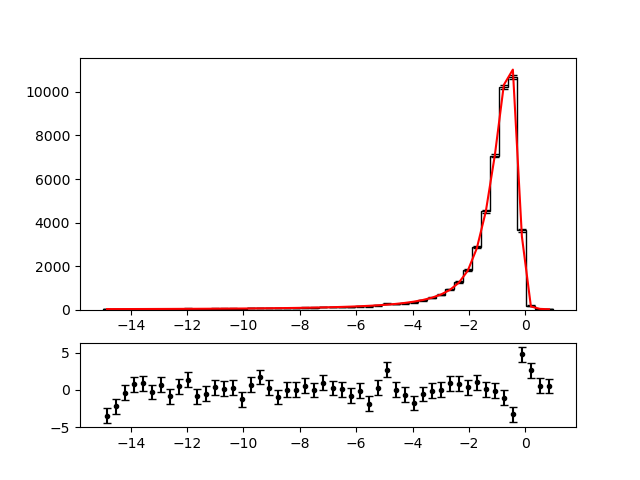
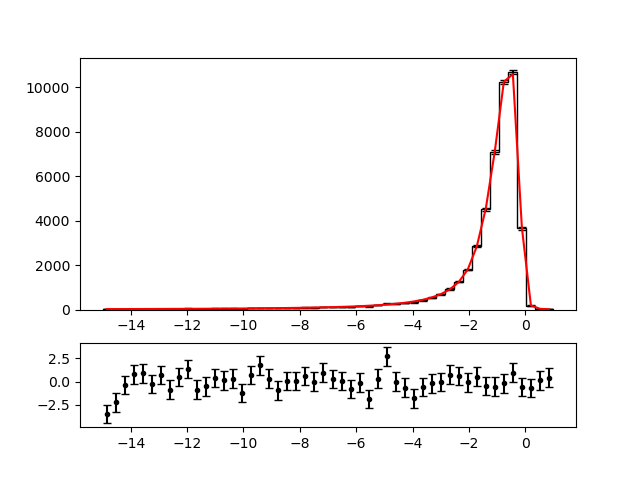
Change the theoretical PDF calculation when plotting from bincenter to average across the bin width

diff --git a/plot_module.py b/plot_module.py
@@ -46,7 +46,7 @@ def plot_residuals_with_gaussian(residual, bins=15, range=(-4, 4), filename="plo
 
     return fig, ax
 
-def plot_fit_result(data_np, fit_range, PDF, N, log_scale=False, n_bins = 50):
+def plot_fit_result(data_np, fit_range, PDF, N, log_scale=False, n_bins = 50, use_integrated=False):
     scale = 1 / n_bins * (fit_range[1] - fit_range[0])
     data_hist, data_binedge = np.histogram(data_np, bins=n_bins, range=fit_range)
     data_bincenter = 0.5 * (data_binedge[1:] + data_binedge[:-1])
@@ -55,10 +55,18 @@ def plot_fit_result(data_np, fit_range, PDF, N, log_scale=False, n_bins = 50):
     ax1.hist(data_np, color='black', bins=n_bins, range=fit_range, histtype='step')
     ax1.errorbar(data_bincenter, data_hist, yerr=np.sqrt(data_hist), color='None', ecolor='black', capsize=3)
 
-    ax1.plot(data_bincenter, (PDF.pdf(data_bincenter, norm_range=fit_range) * N* scale).numpy(), '-r')
+    fit_value_at_bincenter = np.array([])
+    if use_integrated:
+        for low, high in zip(data_binedge[:-1], data_binedge[1:]):
+            averaged_value = (PDF.integrate(limits=(low, high), norm_range=fit_range) * N * scale).numpy() / (high - low)
+            fit_value_at_bincenter = np.append(fit_value_at_bincenter, averaged_value)
+        ax1.plot(data_bincenter, fit_value_at_bincenter, '-r')
+    else:
+        fit_value_at_bincenter = PDF.pdf(data_bincenter, norm_range=fit_range) * N * scale
+        ax1.plot(data_bincenter, fit_value_at_bincenter, '-r')
 
     # plot the residuals
-    residuals = (data_hist - PDF.pdf(data_bincenter, norm_range=fit_range).numpy() * N * scale) / np.sqrt(data_hist)
+    residuals = (data_hist - fit_value_at_bincenter) / np.sqrt(data_hist)
     ax2.errorbar(data_bincenter, residuals, yerr=np.ones_like(residuals), fmt='o', color='black', markersize=3, capsize=3)
     ax2.set_xlim(ax1.get_xlim())
 

diff --git a/main.py b/main.py
@@ -208,11 +208,13 @@ def main(args):
     # ----------------------------------------------------
     # Momentum resolution fit
     ## filter the data_np to be within the fit range
+    '''
     data_mc_bound_low = 101.7
     data_mc_bound_high = 110
     mask = (data_mc_np >= data_mc_bound_low) & (data_mc_np <= data_mc_bound_high)
     data_np = data_np[mask]
     data_mc_np = data_mc_np[mask]
+    '''
     ## plot the momentum distribution
     #fig, ax = plot_module.plotmom_data_only(data_mc_np, (95, 105))
     #plt.show()
@@ -235,8 +237,8 @@ def main(args):
     with open("resolution_fit_result.txt", "w") as f:
         f.write(str(result))
 
-    plot_module.plot_fit_result(diff, (-15, 1), PDF, N)
-    #plt.savefig("plot_resolution_fit_result.png")
+    plot_module.plot_fit_result(diff, (-15, 1), PDF, N, use_integrated=True)
+    plt.savefig("plot_resolution_fit_result.png")
     plt.show()
 
     print("Performing statistical tests on the resolution fit...")
